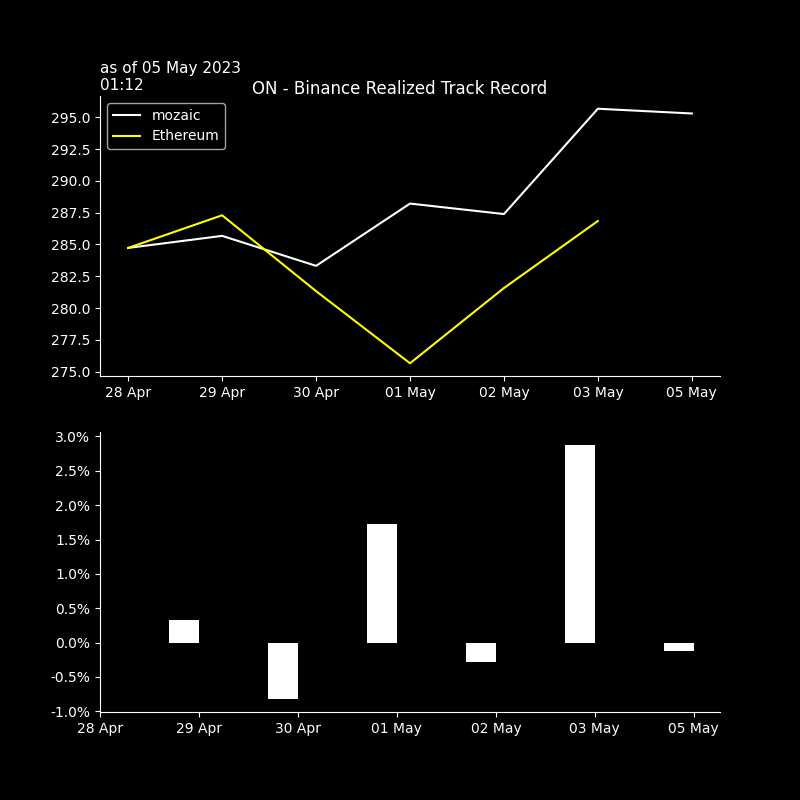
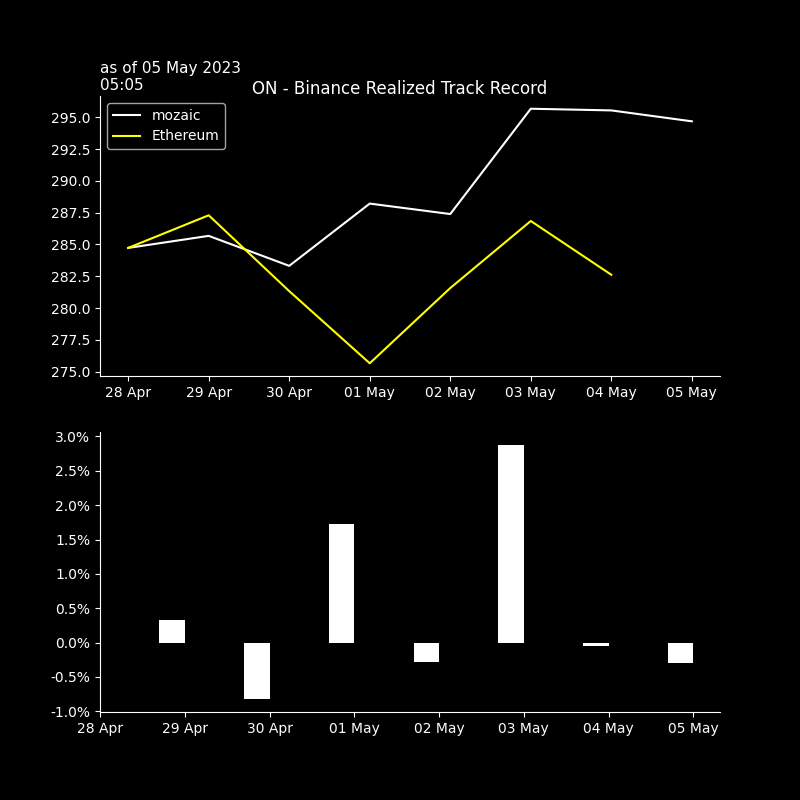
seb_commit

diff --git a/crypto/graphs/bt_trades_book.htmltrade_trades_book.html b/crypto/graphs/bt_trades_book.htmltrade_trades_book.html
@@ -38,54 +38,37 @@
   <tbody>
     <tr>
       <th>XRPUSDT</th>
-      <td>0.4604</td>
-      <td>2023-05-05 00:05:26</td>
-      <td>-401.500</td>
-      <td>$-184.9</td>
-      <td>$0.04</td>
+      <td>0.4638</td>
+      <td>2023-05-05 04:05:13</td>
+      <td>80.000</td>
+      <td>$37.1</td>
+      <td>$0.01</td>
       <td>2.0</td>
-      <td>0.5</td>
-      <td>0.46055</td>
-      <td>2023-05-05 01:01</td>
-      <td>-0.1</td>
-      <td>-3.0</td>
-      <td>.4605</td>
+      <td>-0.3</td>
+      <td>0.46355</td>
+      <td>2023-05-05 05:02</td>
       <td>-0.0</td>
-      <td>-2.0</td>
+      <td>-5.0</td>
+      <td>.4638</td>
+      <td>-0.0</td>
+      <td>-0.0</td>
     </tr>
     <tr>
       <th>BTCUSDT</th>
-      <td>28830.3000</td>
-      <td>2023-05-05 00:03:33</td>
-      <td>-0.006</td>
-      <td>$-173.0</td>
-      <td>$0.04</td>
+      <td>29182.4000</td>
+      <td>2023-05-05 04:04:32</td>
+      <td>0.002</td>
+      <td>$58.4</td>
+      <td>$0.01</td>
       <td>2.0</td>
+      <td>-0.3</td>
+      <td>29178.95000</td>
+      <td>2023-05-05 05:02</td>
       <td>-0.0</td>
-      <td>28824.55000</td>
-      <td>2023-05-05 01:01</td>
-      <td>0.0</td>
-      <td>2.0</td>
-      <td>28823.4</td>
-      <td>0.0</td>
-      <td>2.0</td>
-    </tr>
-    <tr>
-      <th>ETHUSDT</th>
-      <td>1875.6500</td>
-      <td>2023-05-05 00:05:26</td>
-      <td>-0.079</td>
-      <td>$-148.2</td>
-      <td>$0.03</td>
-      <td>2.0</td>
-      <td>0.2</td>
-      <td>1875.71500</td>
-      <td>2023-05-05 01:01</td>
+      <td>-2.0</td>
+      <td>29175.9</td>
       <td>-0.0</td>
-      <td>-1.0</td>
-      <td>1875.79</td>
-      <td>-0.0</td>
-      <td>-1.0</td>
+      <td>-2.0</td>
     </tr>
   </tbody>
 </table>

diff --git a/crypto/graphs/bt_trades_recap.htmltrade_trades_recap.html b/crypto/graphs/bt_trades_recap.htmltrade_trades_recap.html
@@ -9,32 +9,32 @@
   <tbody>
     <tr>
       <th>as of</th>
-      <td>05May 00:03&gt;&gt;00:05</td>
-      <td>#trades: 3</td>
+      <td>05May 04:04&gt;&gt;04:05</td>
+      <td>#trades: 2</td>
     </tr>
     <tr>
       <th>trade net</th>
-      <td>-506.0</td>
-      <td>-171.3%</td>
+      <td>+95.0</td>
+      <td>+32.2%</td>
     </tr>
     <tr>
       <th>trade gross</th>
-      <td>+506.0</td>
-      <td>+171.3%</td>
+      <td>+95.0</td>
+      <td>+32.2%</td>
     </tr>
     <tr>
       <th>BUY</th>
+      <td>+95.0</td>
+      <td>+32.2%</td>
+    </tr>
+    <tr>
+      <th>SELL</th>
       <td>+0.0</td>
       <td>+0.0%</td>
     </tr>
     <tr>
-      <th>SELL</th>
-      <td>-506.0</td>
-      <td>-171.3%</td>
-    </tr>
-    <tr>
       <th>fees</th>
-      <td>$ 0.101</td>
+      <td>$ 0.019</td>
       <td>2.0bp</td>
     </tr>
   </tbody>

diff --git a/crypto/graphs/bt_trades_pnlD_recap.htmltrade_trades_pnlD_recap.html b/crypto/graphs/bt_trades_pnlD_recap.htmltrade_trades_pnlD_recap.html
@@ -1,7 +1,7 @@
 <table border="1" class="dataframe">
   <thead>
     <tr style="text-align: right;">
-      <th>05 May 01:05</th>
+      <th>05 May 05:05</th>
       <th>realizedPnl</th>
       <th>PnLvsArrival</th>
       <th>PnLvsLast</th>
@@ -10,19 +10,19 @@
   <tbody>
     <tr>
       <th>in$</th>
-      <td>0.6</td>
+      <td>-0.6</td>
       <td>-0.0</td>
       <td>-0.0</td>
     </tr>
     <tr>
-      <th>in bp 506 traded</th>
-      <td>12 bp</td>
+      <th>in bp 95 traded</th>
+      <td>-65 bp</td>
+      <td>-3 bp</td>
       <td>-1 bp</td>
-      <td>-0 bp</td>
     </tr>
     <tr>
-      <th>in bp 295 AUMs</th>
-      <td>21 bp</td>
+      <th>in bp 294 AUMs</th>
+      <td>-21 bp</td>
       <td>-1 bp</td>
       <td>-0 bp</td>
     </tr>
